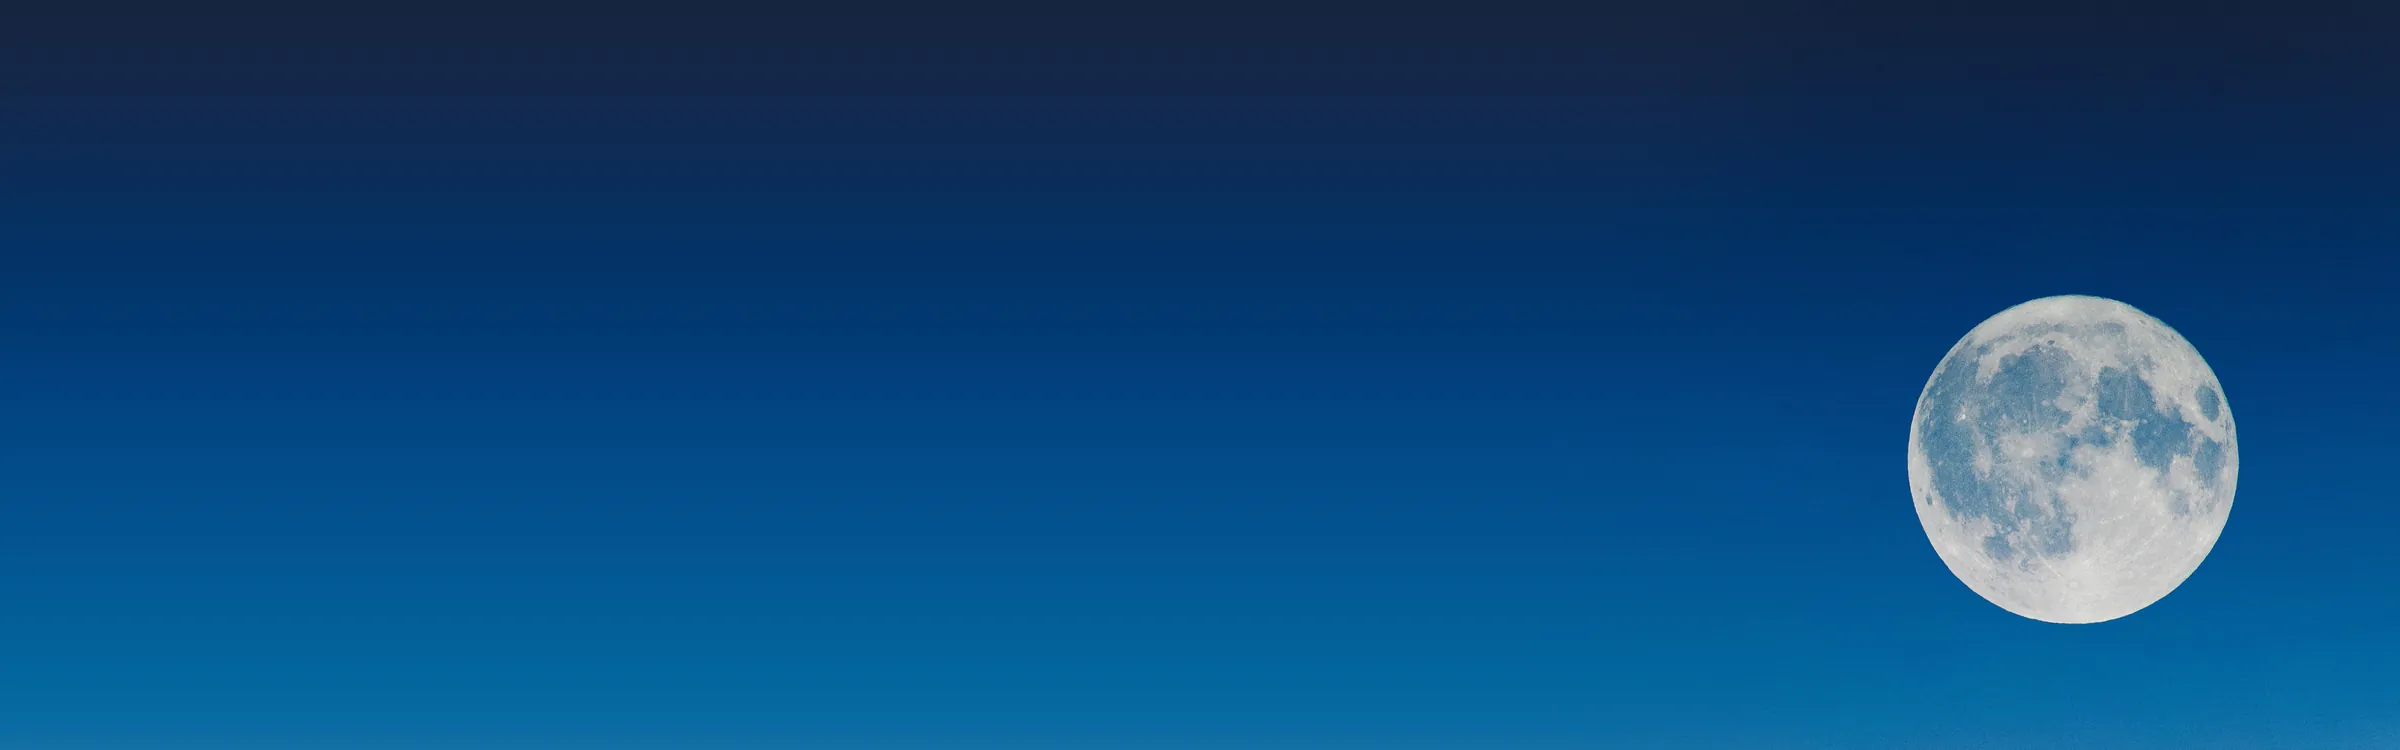
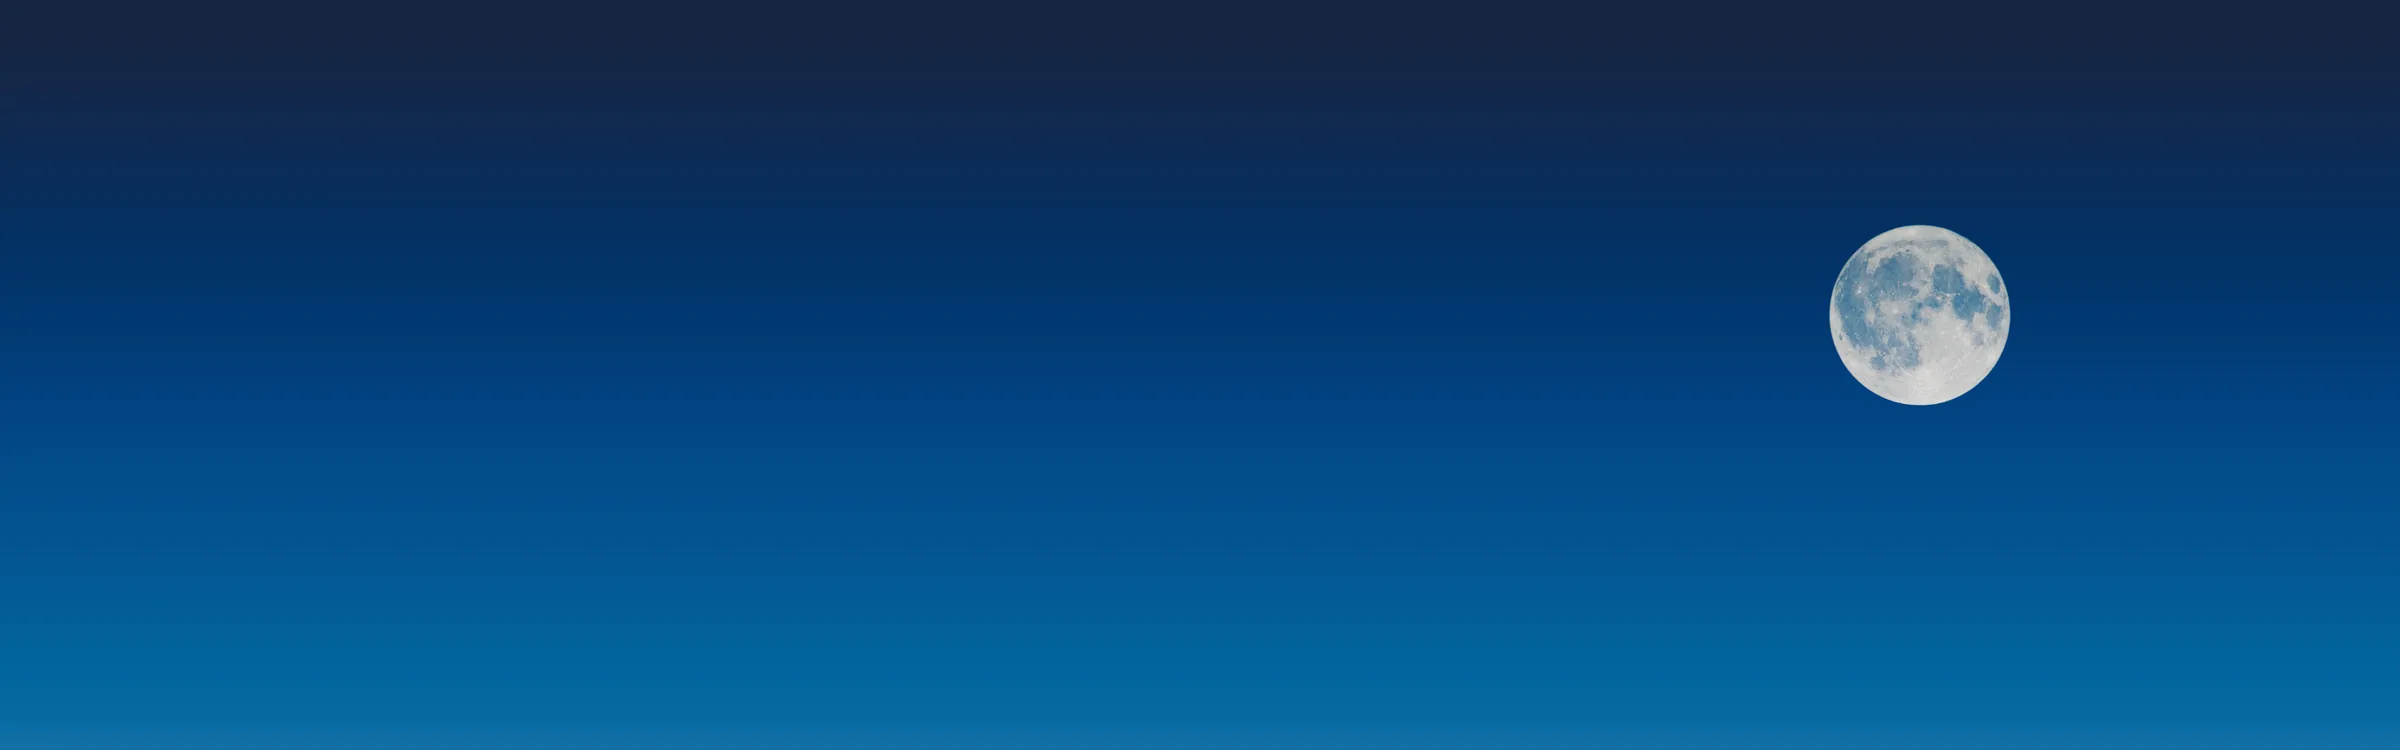
Icone con un solo stile; Cosa cambia centrata con icone; titolo e sottotitolo per i video; Perché funziona allineata; fascia luna più leggera con bottone chiaro, capolettera e firma a destra; sul telefono titoli più decisi e bottoni centrati

Changed region(s): [[0.75, 0.276, 0.9375, 0.828]]

diff --git a/assets/css/base/_sistema.css b/assets/css/base/_sistema.css
@@ -722,9 +722,9 @@ p { text-wrap: pretty; }
 @media (max-width: 899px) {
   .accoglienza { display: grid; min-height: 0; overflow: visible; border-radius: 0; }
   .accoglienza::after { content: ""; position: relative; inset: auto; z-index: 1; grid-area: 1 / 1; align-self: stretch; justify-self: stretch; border-radius: clamp(18px, 1rem + 1vw, 28px); background: linear-gradient(to top, rgba(38, 26, 24, 0.85) 0%, rgba(38, 26, 24, 0.5) 26%, rgba(38, 26, 24, 0) 45%); pointer-events: none; }
-  .accoglienza__foto { position: relative; inset: auto; z-index: 0; grid-area: 1 / 1; height: auto; aspect-ratio: 3 / 4; border-radius: clamp(18px, 1rem + 1vw, 28px); object-position: 62% 0%; }
+  .accoglienza__foto { position: relative; inset: auto; z-index: 0; grid-area: 1 / 1; height: auto; aspect-ratio: 2 / 3; border-radius: clamp(18px, 1rem + 1vw, 28px); object-position: 62% 0%; }
   .accoglienza__testo { display: contents; text-shadow: none; }
-  .accoglienza__titolo { grid-area: 1 / 1; align-self: start; z-index: 2; padding: 2.25rem 1.25rem 0; font-size: clamp(1.9rem, 1.3rem + 3vw, 2.5rem); color: var(--color-text); }
+  .accoglienza__titolo { grid-area: 1 / 1; align-self: start; z-index: 2; padding: 3rem 1.25rem 0; font-size: clamp(1.9rem, 1.3rem + 3vw, 2.5rem); color: var(--color-text); }
   .accoglienza__titolo em { color: var(--color-gold-ink); }
   .accoglienza__lead { padding: 0 calc(var(--gutter) - var(--margine-banda)); margin-top: 1.5rem; color: var(--color-text-soft); }
   .accoglienza__azioni { grid-area: 1 / 1; align-self: end; z-index: 2; margin: 0; padding: 0 1.25rem 1.5rem; gap: 0.75rem; }
@@ -781,32 +781,34 @@ p { text-wrap: pretty; }
 .cambia__foto { margin: clamp(2.5rem, 2rem + 2vw, 3.5rem) 0 0; aspect-ratio: 16 / 7; border-radius: var(--radius-card); overflow: hidden; }
 @media (max-width: 899px) { .cambia__foto { aspect-ratio: 4 / 3; } }
 .cambia__foto img { width: 100%; height: 100%; object-fit: cover; object-position: 50% 22%; filter: var(--grado-foto); }
-.cambia { list-style: none; margin: clamp(2rem, 1.5rem + 2vw, 3rem) 0 0; padding: 0; display: grid; gap: 2rem; }
+.cambia { list-style: none; margin: clamp(2.5rem, 2rem + 2vw, 3.5rem) 0 0; padding: 0; display: grid; gap: 2.5rem; text-align: center; }
 @media (min-width: 900px) {
   .cambia { grid-template-columns: repeat(3, 1fr); gap: 0; }
-  .cambia li { padding: 0.25rem clamp(1.5rem, 3vw, 2.75rem) 0.5rem; }
-  .cambia li:first-child { padding-left: 0; }
+  .cambia li { padding: 0 clamp(1.5rem, 3vw, 2.75rem); }
   .cambia li + li { border-left: 1px solid rgba(138, 101, 38, 0.2); }
 }
-.cambia__capo { display: flex; align-items: center; gap: 0.9rem; }
-.cambia__num { display: grid; place-items: center; width: 2.2rem; height: 2.2rem; flex: none; border-radius: 10px; background: var(--tinta-oro); font-size: var(--text-small); font-weight: 500; color: var(--color-gold-ink); font-variant-numeric: tabular-nums; }
+.cambia__capo { display: flex; flex-direction: column; align-items: center; gap: 1rem; }
 .cambia h3 { margin: 0; font-size: var(--text-h3); }
-.cambia p { margin: 1.5rem 0 0; max-width: 34ch; line-height: 1.75; color: var(--color-text-soft); }
+.cambia p { margin: 0.75rem auto 0; max-width: 32ch; line-height: 1.75; color: var(--color-text-soft); }
 .cambia__azione { display: flex; flex-direction: column; align-items: center; gap: 0.75rem; margin-top: clamp(2.5rem, 2rem + 2vw, 3.5rem); text-align: center; }
 .cambia__azione p { margin: 0; font-size: var(--text-small); color: var(--color-text-muted); }
 
 /* Perché funziona: quattro punti, ognuno con la sua icona disegnata */
+.radice { align-items: start; }
+.radice .affianco__foto { margin-top: 0.4rem; }
 .perche { list-style: none; margin: 0.75rem 0 0.5rem; padding: 0; display: grid; gap: 1.5rem; }
 .perche li { display: grid; grid-template-columns: 2.6rem 1fr; gap: 1.1rem; align-items: start; }
-.perche__icona { display: grid; place-items: center; width: 2.6rem; height: 2.6rem; border-radius: 50%; background: #FFFFFF; box-shadow: inset 0 0 0 1px rgba(138, 101, 38, 0.25); color: var(--color-bordeaux); }
-.perche__icona svg { width: 1.2rem; height: 1.2rem; fill: none; stroke: currentColor; stroke-width: 1.5; stroke-linecap: round; stroke-linejoin: round; }
+/* Icone: un solo stile in tutto il sito (tratto Lucide 1.5, vino, in un cerchio bianco con il filo d'oro) */
+.icona { display: grid; place-items: center; flex: none; width: 2.6rem; height: 2.6rem; border-radius: 50%; background: #FFFFFF; box-shadow: inset 0 0 0 1px rgba(138, 101, 38, 0.25); color: var(--color-bordeaux); }
+.icona svg { width: 1.2rem; height: 1.2rem; fill: none; stroke: currentColor; stroke-width: 1.5; stroke-linecap: round; stroke-linejoin: round; }
 .perche h3 { margin: 0.2rem 0 0.35rem; font-size: var(--text-h3); }
 .perche p { margin: 0; line-height: 1.7; color: var(--color-text-soft); }
 
 /* Le loro voci: fila di video che scorre di lato (dito o frecce), sfuma ai bordi; YouTube si carica solo al clic */
 .voci { margin-top: clamp(5rem, 4rem + 4vw, 8rem); text-align: left; }
 .voci__testa { display: flex; align-items: end; justify-content: space-between; gap: 1rem; margin-bottom: 1.5rem; }
-.voci__titolo { margin: 0; font-size: var(--text-h3); font-weight: 500; }
+.voci__titolo { margin: 0; font-size: clamp(1.6rem, 1.3rem + 1.2vw, 2.3rem); font-weight: 450; }
+.voci__sotto { margin: 0.4rem 0 0; font-size: var(--text-small); color: var(--color-text-soft); }
 .voci__frecce { display: flex; gap: 0.5rem; }
 .voci__freccia { width: 2.8rem; height: 2.8rem; border-radius: 50%; border: 0; background: #FFFFFF; box-shadow: inset 0 0 0 1px rgba(142, 66, 88, 0.35); color: var(--color-bordeaux); display: grid; place-items: center; cursor: pointer; transition: background-color 250ms ease, color 250ms ease; }
 .voci__freccia:hover { background: var(--color-bordeaux); color: #FFFFFF; }
@@ -902,10 +904,13 @@ p { text-wrap: pretty; }
 .fascia-vino__dentro { max-width: 52rem; margin: 0 auto; }
 .fascia-vino--luna { position: relative; isolation: isolate; overflow: hidden; }
 .fascia-vino__sfondo { position: absolute; inset: 0; z-index: -2; width: 100%; height: 100%; object-fit: cover; object-position: 100% 50%; }
-.fascia-vino--luna::after { content: ""; position: absolute; inset: 0; z-index: -1; background: linear-gradient(to right, rgba(62, 31, 41, 0.92) 0%, rgba(62, 31, 41, 0.7) 40%, rgba(62, 31, 41, 0.05) 75%); }
+.fascia-vino--luna::after { content: ""; position: absolute; inset: 0; z-index: -1; background: linear-gradient(to right, rgba(20, 22, 48, 0.55) 0%, rgba(20, 22, 48, 0.25) 45%, rgba(20, 22, 48, 0) 70%); }
+.btn-luna { --fondo-btn: transparent; --filo-btn: rgba(255, 255, 255, 0.7); --tinta-btn: var(--color-primary); --freccia-btn: var(--color-text); color: #FFFFFF; margin-top: 2rem; }
+.btn-luna:is(:hover, :focus-visible) { color: var(--color-text); }
 .fascia-vino--luna .fascia-vino__dentro { margin: 0; max-width: 44rem; margin-left: max(0px, calc((100% - var(--container-max-width)) / 2)); }
-.fascia-vino blockquote { margin: 0; font-family: var(--font-heading); font-variation-settings: "opsz" 11; font-style: italic; font-weight: 400; font-size: clamp(1.5rem, 1.15rem + 1.4vw, 2.3rem); line-height: 1.32; color: var(--color-on-earth); }
-.fascia-vino figcaption { margin-top: 1.5rem; display: flex; align-items: center; gap: 0.75rem; font-size: var(--text-small); font-weight: 600; color: var(--oro-su-scuro); }
+.fascia-vino blockquote { margin: 0; font-family: var(--font-heading); font-variation-settings: "opsz" 11; font-style: italic; font-weight: 400; font-size: clamp(1.4rem, 1.1rem + 1.2vw, 2.1rem); line-height: 1.45; letter-spacing: 0.005em; color: var(--color-on-earth); }
+.fascia-vino blockquote::first-letter { font-size: 1.9em; line-height: 0.8; font-style: normal; color: var(--oro-su-scuro); }
+.fascia-vino figcaption { margin-top: 1.5rem; display: flex; justify-content: flex-end; align-items: center; gap: 0.75rem; font-size: var(--text-small); font-weight: 600; color: var(--oro-su-scuro); }
 .fascia-vino figcaption::before { content: ""; width: 2.5rem; height: 1px; background: var(--oro-su-scuro); }
 
 /* Come si inizia: l'offerta a sinistra, cosa succede dopo il messaggio a destra */
@@ -1447,3 +1452,10 @@ p { text-wrap: pretty; }
 /* L'apertura è una fascia avorio con la sfumatura: il bordo si vede e il taglio della foto è voluto */
 .apertura.sfumato { background: var(--color-bg-soft); }
 .apertura.sfumato::before { inset: 0; -webkit-mask-image: none; mask-image: none; }
+
+/* Telefono: titoli principali più decisi; bottoni centrati (non quelli dentro il campo mail o la barra fissa) */
+@media (max-width: 899px) {
+  h1, .titolo-display { font-weight: 700; }
+  main .btn:not(.campo-mail .btn):not(.barra-wa .btn) { display: flex; width: fit-content; margin-inline: auto; }
+  .accoglienza__azioni, .apertura__azioni, .cambia__azione, .passi__azione { justify-content: center; text-align: center; }
+}

diff --git a/consulenze-individuali.html b/consulenze-individuali.html
@@ -98,15 +98,15 @@
             </figure>
             <ol class="cambia">
               <li>
-                <div class="cambia__capo"><span class="cambia__num">01</span><h3>In te</h3></div>
+                <div class="cambia__capo"><span class="icona" aria-hidden="true"><svg viewBox="0 0 24 24"><path d="M12.67 19a2 2 0 0 0 1.416-.588l6.154-6.172a6 6 0 0 0-8.49-8.49L5.586 9.914A2 2 0 0 0 5 11.328V18a1 1 0 0 0 1 1z"/><path d="M16 8 2 22"/><path d="M17.5 15H9"/></svg></span><h3>In te</h3></div>
                 <p>Il peso di fondo si allenta: respiri meglio, dormi meglio, smetti di girare in tondo sulle stesse domande. Ti senti di nuovo al tuo posto.</p>
               </li>
               <li>
-                <div class="cambia__capo"><span class="cambia__num">02</span><h3>Nelle relazioni</h3></div>
+                <div class="cambia__capo"><span class="icona" aria-hidden="true"><svg viewBox="0 0 24 24"><path d="M16 21v-2a4 4 0 0 0-4-4H6a4 4 0 0 0-4 4v2"/><circle cx="9" cy="7" r="4"/><path d="M22 21v-2a4 4 0 0 0-3-3.87"/><path d="M16 3.13a4 4 0 0 1 0 7.75"/></svg></span><h3>Nelle relazioni</h3></div>
                 <p>Riesci a parlare con chi prima ti bloccava, dici sì e no quando lo senti tu. E chi ti sta vicino se ne accorge, spesso prima di te.</p>
               </li>
               <li>
-                <div class="cambia__capo"><span class="cambia__num">03</span><h3>Nella vita di ogni giorno</h3></div>
+                <div class="cambia__capo"><span class="icona" aria-hidden="true"><svg viewBox="0 0 24 24"><circle cx="12" cy="12" r="4"/><path d="M12 2v2"/><path d="M12 20v2"/><path d="m4.93 4.93 1.41 1.41"/><path d="m17.66 17.66 1.41 1.41"/><path d="M2 12h2"/><path d="M20 12h2"/><path d="m6.34 17.66-1.41 1.41"/><path d="m19.07 4.93-1.41 1.41"/></svg></span><h3>Nella vita di ogni giorno</h3></div>
                 <p>Decisioni prese con chiarezza invece di rimandarle per mesi. Abitudini che si allentano. Più energia per te, perché non la spendi più a tenere in piedi tutto.</p>
               </li>
             </ol>
@@ -138,7 +138,10 @@
             </div>
             <div class="voci">
               <div class="voci__testa">
-                <h3 class="voci__titolo">Le loro voci</h3>
+                <div>
+                  <h3 class="voci__titolo">Le loro voci</h3>
+                  <p class="voci__sotto">Alcune persone hanno voluto raccontarlo a voce, davanti alla telecamera.</p>
+                </div>
                 <div class="voci__frecce">
                   <button class="voci__freccia" type="button" data-voci="-1" aria-label="Video precedenti"><svg viewBox="0 0 16 16" fill="none" stroke="currentColor" stroke-width="1.5" stroke-linecap="round" stroke-linejoin="round" aria-hidden="true"><path d="M14 8H2M7 3L2 8l5 5"/></svg></button>
                   <button class="voci__freccia" type="button" data-voci="1" aria-label="Video successivi"><svg viewBox="0 0 16 16" fill="none" stroke="currentColor" stroke-width="1.5" stroke-linecap="round" stroke-linejoin="round" aria-hidden="true"><path d="M2 8h12M9 3l5 5-5 5"/></svg></button>
@@ -170,10 +173,10 @@
             <div class="affianco__testo">
               <h2 class="titolo-sezione">Perché funziona, <em>anche quando altro non è bastato.</em></h2>
               <ul class="perche">
-                <li><span class="perche__icona"><svg viewBox="0 0 24 24" aria-hidden="true"><path d="M12 22V12"/><path d="M12 12c0-4 3-7 7-7 0 4-3 7-7 7Z"/><path d="M12 15c0-3-2.5-5.5-6-5.5 0 3.5 2.5 5.5 6 5.5Z"/><path d="M8 22h8"/></svg></span><div><h3>Si va alla radice</h3><p>Quello che si ripete ha quasi sempre un'origine, spesso nella tua storia o nella tua famiglia. Quando la vedi, smette di comandarti.</p></div></li>
-                <li><span class="perche__icona"><svg viewBox="0 0 24 24" aria-hidden="true"><path d="M19 14c1.49-1.46 3-3.21 3-5.5A5.5 5.5 0 0 0 16.5 3c-1.76 0-3 .5-4.5 2-1.5-1.5-2.74-2-4.5-2A5.5 5.5 0 0 0 2 8.5c0 2.3 1.5 4.05 3 5.5l7 7Z"/></svg></span><div><h3>Con il corpo, non solo con le parole</h3><p>Il corpo sa cose che la testa non dice. Lavoriamo anche lì, rappresentando le situazioni nello spazio o attraversandole con una visualizzazione.</p></div></li>
-                <li><span class="perche__icona"><svg viewBox="0 0 24 24" aria-hidden="true"><circle cx="12" cy="7" r="4"/><path d="M5.5 21a6.5 6.5 0 0 1 13 0"/></svg></span><div><h3>Una persona alla volta</h3><p>Nessun protocollo uguale per tutti: ti ascolto e si parte dal motivo che ti porta da me, con riservatezza.</p></div></li>
-                <li><span class="perche__icona"><svg viewBox="0 0 24 24" aria-hidden="true"><path d="M5 12h14"/><path d="m13 6 6 6-6 6"/></svg></span><div><h3>In poche sedute</h3><p>Molte persone sentono un cambiamento già dal primo incontro. Di solito bastano quattro o cinque incontri perché resti.</p></div></li>
+                <li><span class="icona" aria-hidden="true"><svg viewBox="0 0 24 24"><path d="M7 20h10"/><path d="M10 20c5.5-2.5.8-6.4 3-10"/><path d="M9.5 9.4c1.1.8 1.8 2.2 2.3 3.7-2 .4-3.5.4-4.8-.3-1.2-.6-2.3-1.9-3-4.2 2.8-.5 4.4 0 5.5.8z"/><path d="M14.1 6a7 7 0 0 0-1.1 4c1.9-.1 3.3-.6 4.3-1.4 1-1 1.6-2.3 1.7-4.6-2.7.1-4 1-4.9 2z"/></svg></span><div><h3>Si va alla radice</h3><p>Quello che si ripete ha quasi sempre un'origine, spesso nella tua storia o nella tua famiglia. Quando la vedi, smette di comandarti.</p></div></li>
+                <li><span class="icona" aria-hidden="true"><svg viewBox="0 0 24 24"><path d="M19 14c1.49-1.46 3-3.21 3-5.5A5.5 5.5 0 0 0 16.5 3c-1.76 0-3 .5-4.5 2-1.5-1.5-2.74-2-4.5-2A5.5 5.5 0 0 0 2 8.5c0 2.3 1.5 4.05 3 5.5l7 7Z"/></svg></span><div><h3>Con il corpo, non solo con le parole</h3><p>Il corpo sa cose che la testa non dice. Lavoriamo anche lì, rappresentando le situazioni nello spazio o attraversandole con una visualizzazione.</p></div></li>
+                <li><span class="icona" aria-hidden="true"><svg viewBox="0 0 24 24"><path d="M19 21v-2a4 4 0 0 0-4-4H9a4 4 0 0 0-4 4v2"/><circle cx="12" cy="7" r="4"/></svg></span><div><h3>Una persona alla volta</h3><p>Nessun protocollo uguale per tutti: ti ascolto e si parte dal motivo che ti porta da me, con riservatezza.</p></div></li>
+                <li><span class="icona" aria-hidden="true"><svg viewBox="0 0 24 24"><circle cx="12" cy="12" r="10"/><path d="M12 6v6l4 2"/></svg></span><div><h3>In poche sedute</h3><p>Molte persone sentono un cambiamento già dal primo incontro. Di solito bastano quattro o cinque incontri perché resti.</p></div></li>
               </ul>
               <a class="btn btn-accento" data-wa-key="consulenze">Raccontami cosa ti succede</a>
             </div>
@@ -211,6 +214,7 @@
           <figure class="fascia-vino__dentro">
             <blockquote>Molte persone sentono un cambiamento già dal primo incontro. È lì che quasi tutte si fermano, perché il sollievo sembra bastare. Ma quello che si ripete da anni ha bisogno di un po' più di tempo per non tornare.</blockquote>
             <figcaption>Giorgia</figcaption>
+            <a class="btn btn-luna" data-wa-key="consulenze">Raccontami cosa ti succede</a>
           </figure>
         </section>
 
